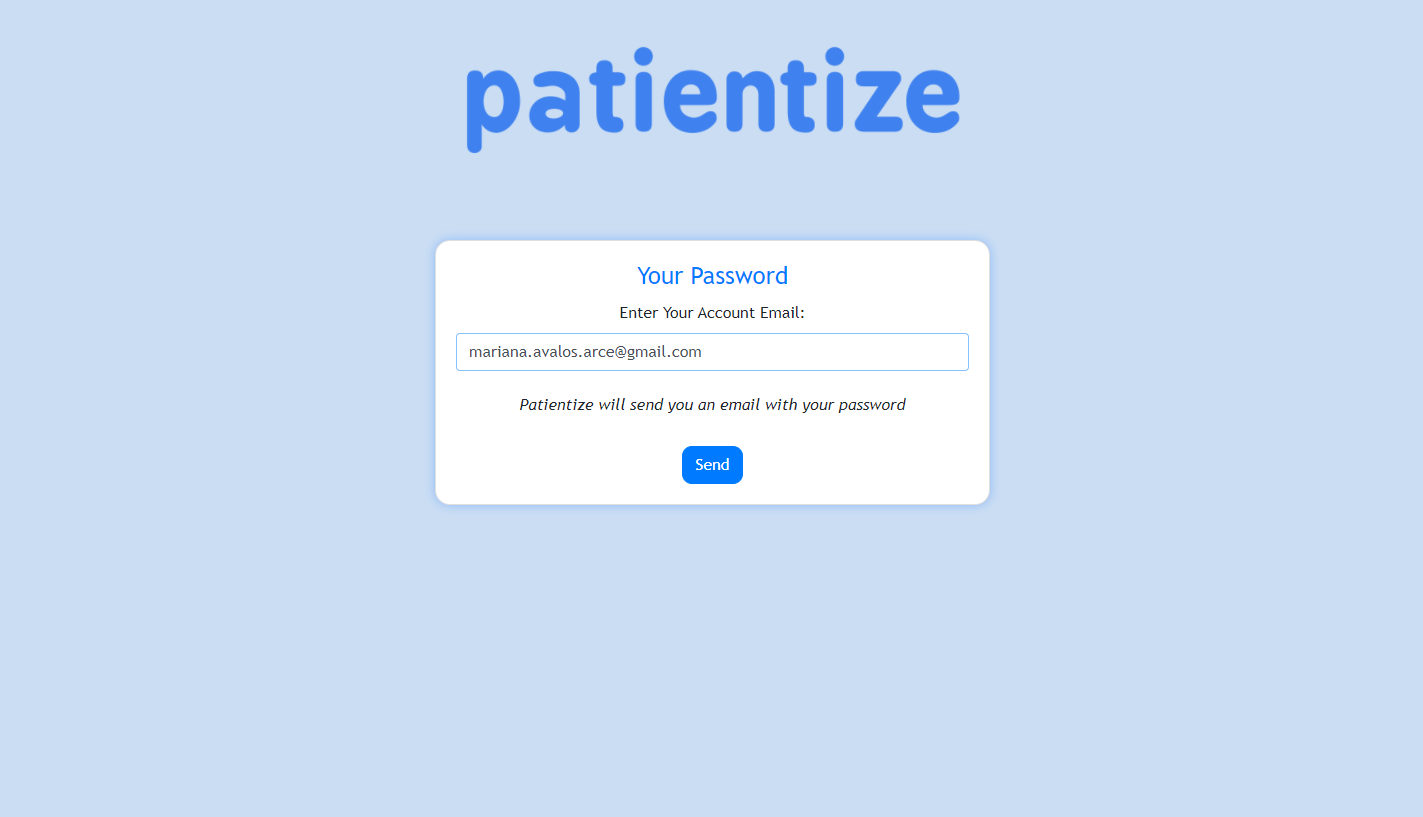
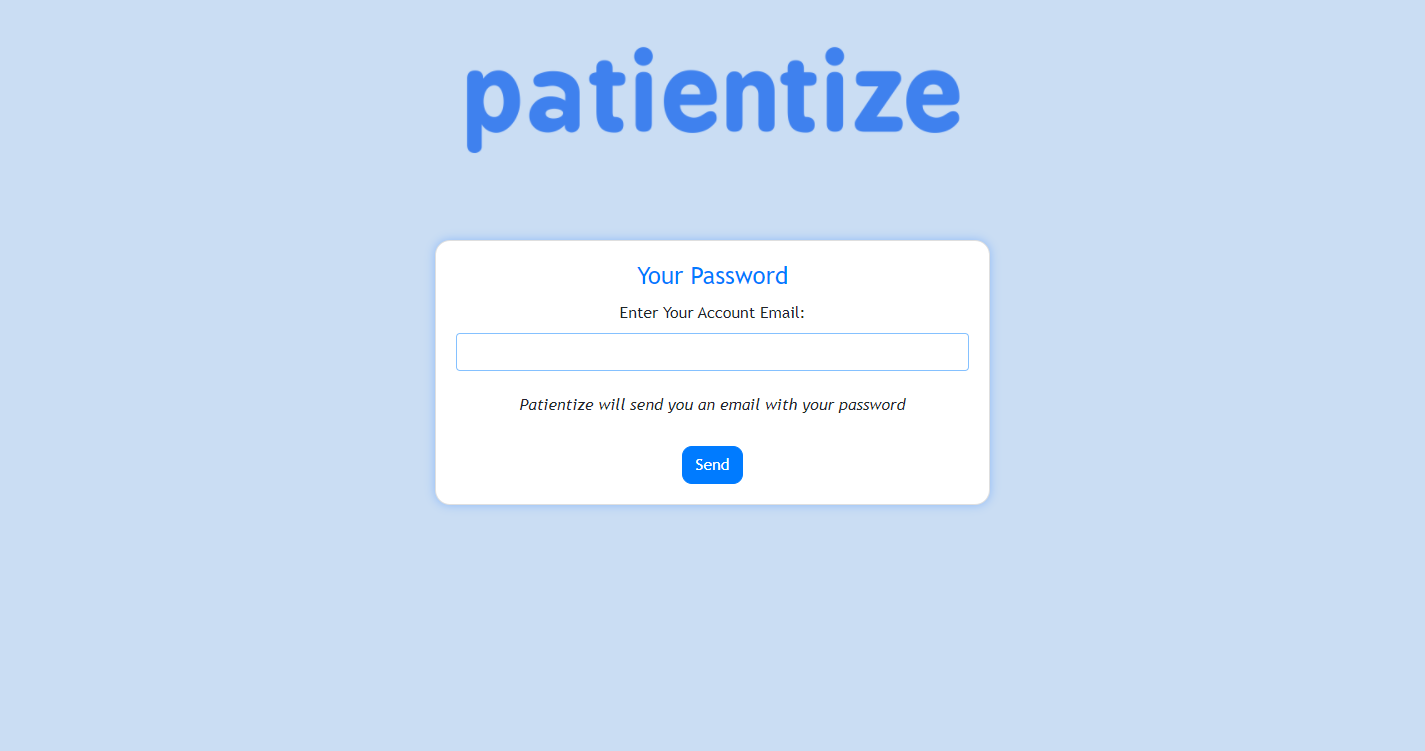
updated evidences

diff --git a/README.md b/README.md
@@ -91,3 +91,13 @@ By clicking on a template's red button that says 'Delete', a template is deleted
 Once in a patient view, you can choose to edit an existing -and available- document, if you click on the document's Edit button. It will appear with the doc's info so that you change only what you want. <br />
 
 ![image](https://github.com/the-other-mariana/patientize/blob/master/evidences/edit-modal-docs-03.png?raw=true) <br />
+
+## 3. Password Recovery
+
+If you cannot remember your Patientize user password, click on the Forgot Password? link, and you will see this screen. <br />
+
+![image](https://github.com/the-other-mariana/patientize/blob/master/evidences/forgot-password.png?raw=true) <br />
+
+Then, enter the email you put in your account. After that, click on Send and we will send you an email with your password. <br />
+
+![image](https://github.com/the-other-mariana/patientize/blob/master/evidences/email-body.png?raw=true) <br />
